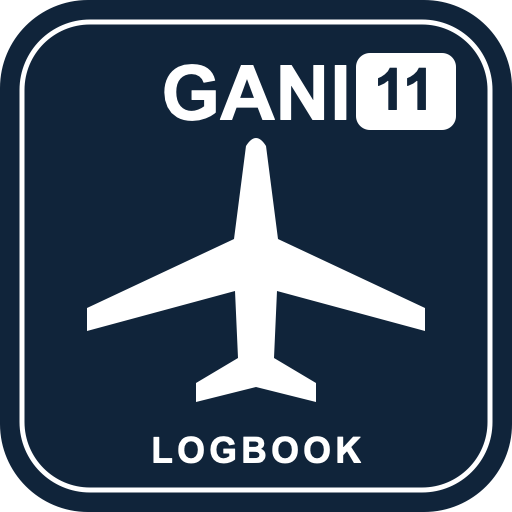
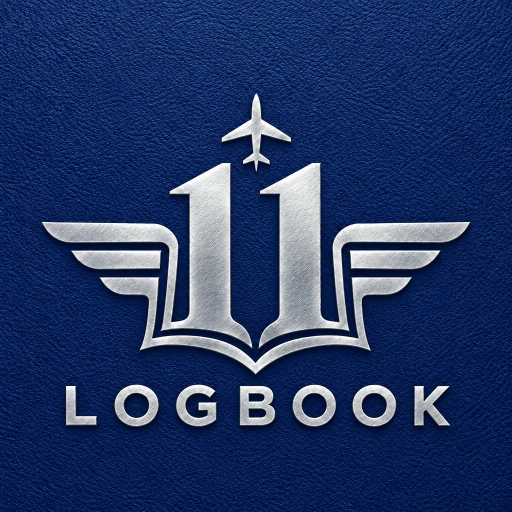
Logbook logosunu ve Safari ikonunu güncelle, sürümü üste al.

diff --git a/support/logbook/index.html b/support/logbook/index.html
@@ -1,5 +1,5 @@
-<!doctype html><html lang="tr"><meta charset="utf-8"><meta name="viewport" content="width=device-width, initial-scale=1, viewport-fit=cover"><meta name="theme-color" content="#10243a"><meta name="apple-mobile-web-app-capable" content="yes"><meta name="apple-mobile-web-app-title" content="Gani Logbook"><link rel="manifest" href="manifest.webmanifest"><link rel="apple-touch-icon" href="icon-192.png"><link rel="icon" href="logo.svg"><link rel="stylesheet" href="style.css"><title>Gani Logbook</title>
-<header><img src="logo.svg" alt="Gani ve uçak logosu"><div><h1>Gani Logbook</h1><p>PILOT FLIGHT RECORD · UTC</p></div><span id="connection">Cihazda</span></header>
+<!doctype html><html lang="tr"><meta charset="utf-8"><meta name="viewport" content="width=device-width, initial-scale=1, viewport-fit=cover"><meta name="theme-color" content="#10243a"><meta name="apple-mobile-web-app-capable" content="yes"><meta name="apple-mobile-web-app-title" content="Gani Logbook"><link rel="manifest" href="manifest.webmanifest"><link rel="apple-touch-icon" href="apple-touch-icon.png"><link rel="icon" href="logo.png"><link rel="stylesheet" href="style.css"><title>Gani Logbook</title>
+<header><img src="logo.png" alt="Logbook logosu"><div><h1>Gani Logbook</h1><p>PILOT FLIGHT RECORD · UTC</p></div><div class="headside"><b id="version">v1.4.8</b><span id="connection">Cihazda</span></div></header>
 <p id="bookStatus" class="bookstatus" role="status">Son senkron: yok · Son online kayıt: yok</p>
 <main><nav><button data-tab="book" class="active">Uçuş defteri</button><button data-tab="import">Rapor aktar</button><button data-tab="settings">Ayarlar ve yedek</button></nav>
 <section id="book"><div class="toolbar booktools"><button id="prevPage">← Önceki</button><b id="pageLabel"></b><button id="nextPage">Sonraki →</button><button id="gmailSync">Senkron et</button><button id="cancelSync" hidden>Durdur</button><button id="cloudConnect">Google ile çevrimiçi kayıt</button><button id="cloudSave" disabled>Online kaydet</button><button id="cloudLoad" disabled>Son kaydı aç</button><button id="add">+ Uçuş</button><button id="print">Yazdır</button></div>
@@ -9,5 +9,5 @@
 <div class="stats"><div><small>TOPLAM BLOCK</small><strong id="total"></strong></div><div><small>GECE · TAHMİNİ</small><strong id="night"></strong></div><div><small>İNİŞLER</small><strong id="landings"></strong></div><div><small>UÇUŞ</small><strong id="count"></strong></div></div><div id="empty" hidden>12 Ekim ve sonrasına ait raporları senkron et veya aktar.</div><div id="records" hidden></div><input id="search" hidden><button id="csv">CSV indir</button><p id="saved" class="hint"></p></section>
 <section id="import" hidden><h2>Flight Report aktar</h2><p>Mailin “Flight Report Delivery Notification” bölümünü yapıştır. Birden fazla raporu birlikte aktarabilirsin. Aynı uçuş tekrar eklenmez; mevcut kayıtların üzerine yazılmaz.</p><label>Rapor metni<textarea id="report" rows="13" placeholder="Flight No: …&#10;Aircraft: TC-…&#10;Off Block: …"></textarea></label><button id="parse">Raporları incele</button><div id="importPreview"></div></section>
 <section id="settings" hidden><h2>Kayıtların sende.</h2><div id="setupInfo"><h3>Gmail bağlantısı</h3><p id="gmailSetup">Google bağlantı yapılandırması henüz tamamlanmadı. Senkronizasyon ilk Google izninden sonra kullanılabilir.</p><button id="gmailDisconnect">Bu oturumun Gmail bağlantısını kapat</button><p>Sadece okuma izni istenir. Uygulama mailleri göndermez, silmez veya etiketlerini değiştirmez. Gmail erişim anahtarı yalnızca açık oturumun belleğinde tutulur; yedeğe ya da siteye kaydedilmez.</p></div><p>Çevrimdışı kopya bu tarayıcıda saklanır. “Online kaydet” aile planıyla aynı FlyFam altyapısında, yalnızca Google hesabına açık özel bir alana sürümlü yedek kaydeder. Drive izni gerekmez. Başka cihazda aynı Google hesabını bağlayıp son kaydı aç. Her kaydetme önceki bulut sürümünü korur. Safari verilerini silmeden önce online kaydı doğrula veya JSON yedeği indir.</p><div class="toolbar"><button id="backup">Yedek indir</button><button id="undoRemove">Son çıkarılan uçuşu geri al</button><label class="file">Yedek yükle<input id="restore" type="file" accept="application/json,.json"></label></div><details><summary>Yedek metninden yükle</summary><label>Gani Logbook JSON yedeği<textarea id="backupText" rows="5"></textarea></label><button id="restoreText">Yedek metnini yükle</button></details><h3>Defter düzeni ve kayıt esası</h3><p>JAR-FCL 1.080 / IEM defter alanları esas alınmıştır. A320/A321 süreleri Multi-Pilot ve Total Time sütunlarına yazılır. Single Pilot / SE ve ME sütunlarına bu uçuşlar için süre eklenmez. Bu kişisel görünüm tam mevzuat uygunluğu sertifikası değildir.</p><h3>PF → PIC eşleştirmesi</h3><p>Senin tercihinle PF seçimi PIC süresine aktarılır. PF tek başına yasal PIC statüsünü kanıtlamaz; bu kişisel eşleştirme kuralıdır. Kayıt bazında pilot görevini değiştirebilirsin.</p><h3>Gece hesabı</h3><p>Gün batımı +30 dk → gün doğumu −30 dk. Saatler UTC. Güneş doğuş/batışı deniz seviyesi, standart −0,833° güneş yüksekliğine göre hesaplanır.</p><p>Blok süresi dakika dakika, iki meydan arasında büyük daire üzerinde eşit hız yaklaşımıyla incelenir. Gerçek rota ve hız profili bulunmadığından gece süresi bir tahmindir; sınır yakınında elle düzeltilebilir. İniş sınıfı tercihinle On Block saatinde varış meydanına göre tahmin edilir. Her uçuşta bir iniş sayılır; bu sayı kişisel PF iniş deneyiminden farklı olabilir.</p><p>Eksik meydan koordinatı varsa gece inişi belirsiz bırakılır. Kutuplarda doğuş/batış oluşmadığında otomatik sonuç verilmez.</p><p><a id="source" href="https://web.shgm.gov.tr/documents/sivilhavacilik/files/mevzuat/sektorel/talimatlar/karma/SHT-FCL11.06.2025.pdf" target="_blank" rel="noopener">SHGM SHT-FCL · 11.06.2025</a> · <span id="ruleStatus">Madde 4(1)(r): günbatımı +30 dk / gündoğumu −30 dk. 31.10.2026 kontrol edildi.</span></p><h3>Safari’den uygulama gibi</h3><p>Paylaş → Ana Ekrana Ekle. İlk açılışı internetle yap; “Çevrimdışı hazır” yazısını gördükten sonra son kayıtlarınla internetsiz çalışır.</p><h3>Meydan koordinatları</h3><p>Yeni meydanları IATA veya ICAO koduyla ekle. Koordinatlar ondalık derece; batı ve güney negatiftir.</p><form id="airportForm" class="grid"><label>Kod<input name="code" required pattern="[A-Za-z]{3,4}"></label><label>Enlem<input name="lat" type="number" step="any" min="-90" max="90" required></label><label>Boylam<input name="lon" type="number" step="any" min="-180" max="180" required></label><button>Meydanı kaydet</button></form><p class="hint">Başlangıç meydanları: OurAirports açık veri kümesi. Yeni değerler yalnızca bu cihaza kaydedilir.</p></section>
-<footer>GANI LOGBOOK · PRIVATE RECORDS ON THIS DEVICE <span>v1.4.7</span></footer></main>
+<footer>GANI LOGBOOK · PRIVATE RECORDS ON THIS DEVICE</footer></main>
 <dialog id="editor"><form id="editForm"><div class="dialoghead"><h2>Uçuş kaydı</h2><button type="button" id="close">Kapat</button></div><input name="id" type="hidden"><div class="grid"><label>Tarih (UTC)<input name="date" type="date" required></label><label>Uçuş no<input name="flight" required></label><label>Tescil<input name="reg" required pattern="[Tt][Cc]-?[RrNnDd][A-Za-z]{2}" placeholder="TC-DCI"></label><label>Kalkış<input name="from" required maxlength="4"></label><label>Varış<input name="to" required maxlength="4"></label><label>Off Block (UTC)<input name="off" type="datetime-local" required></label><label>Take Off (UTC)<input name="takeoff" type="datetime-local"></label><label>Landing (UTC)<input name="landing" type="datetime-local"></label><label>On Block (UTC)<input name="on" type="datetime-local" required></label><label>Kaptan<input name="pic"></label><label>Pilot görevi<select name="function"><option value="copilot">Co-pilot</option><option value="pic">PIC</option><option value="dual">Dual</option></select></label><label>Uçuş seçimi<select name="flown"><option value="unknown">Henüz seçmedim</option><option value="yes">Ben uçtum / inişi ben yaptım</option><option value="no">Diğer pilot uçtu / inişi yaptı</option></select></label><label>IFR<select name="ifr"><option value="unknown">Teyit edilmedi</option><option value="yes">Tüm blok IFR</option><option value="no">IFR değil</option></select></label><label>Gece süresi düzeltme (dk)<input name="nightOverride" type="number" min="0" placeholder="Boş: otomatik"></label><label>Gece inişi düzeltme<select name="landingOverride"><option value="auto">Otomatik</option><option value="night">Gece</option><option value="day">Gündüz</option></select></label><label class="wide">Not<input name="remarks"></label></div><p id="editError" role="alert"></p><button class="primary">Kaydı sakla</button><button type="button" id="removeFlight">Pass / FO değil · Defterden çıkar</button></form></dialog><div id="toast" role="status"></div><script src="sun.js"></script><script src="airports.js"></script><dialog id="pfReview"><div class="dialoghead"><h2>Uçuşlarını seç</h2><button id="closeReview">Sonra devam et</button></div><p>Her yeni uçuş için PF veya PM seç. Seçmediklerin bekleyen listesinde kalır. PF → PIC, PM → co-pilot; blok süresi değişmez.</p><div class="reviewhead"><strong id="reviewCount"></strong><button id="nextReview">Sonraki uçuş</button></div><div id="reviewContent"></div></dialog><script src="mail-parser.js"></script><script src="app.js"></script><script src="gmail-config.js"></script><script src="gmail.js"></script><script src="cloud.js"></script></html>

diff --git a/support/logbook/sw.js b/support/logbook/sw.js
@@ -1,4 +1,4 @@
-const CACHE='gani-logbook-v1.4.7';const FILES=['./','./index.html','./style.css','./app.js','./mail-parser.js','./gmail.js','./cloud.js','./gmail-config.js','./sun.js','./airports.js','./logo.svg','./manifest.webmanifest','./icon-192.png','./icon-512.png'];
+const CACHE='gani-logbook-v1.4.8';const FILES=['./','./index.html','./style.css','./app.js','./mail-parser.js','./gmail.js','./cloud.js','./gmail-config.js','./sun.js','./airports.js','./logo.png','./apple-touch-icon.png','./manifest.webmanifest','./icon-192.png','./icon-512.png'];
 self.addEventListener('install',e=>e.waitUntil((async()=>{const c=await caches.open(CACHE);await Promise.all(FILES.map(async f=>{const url=new URL(f,self.location).href;const r=await fetch(url,{cache:'no-store'});if(!r.ok)throw new Error(f);await c.put(url,r)}));await self.skipWaiting()})()));
 self.addEventListener('activate',e=>e.waitUntil((async()=>{const keys=await caches.keys();await Promise.all(keys.filter(k=>k.startsWith('gani-logbook-')&&k!==CACHE).map(k=>caches.delete(k)));await self.clients.claim();const pages=await self.clients.matchAll({type:'window',includeUncontrolled:true});await Promise.all(pages.map(c=>c.navigate(c.url).catch(()=>{})))})()));
 self.addEventListener('fetch',e=>{const u=new URL(e.request.url);if(e.request.method!=='GET'||u.origin!==location.origin||!u.pathname.startsWith('/logbook/'))return;e.respondWith((async()=>{try{const r=await fetch(e.request,{cache:'no-store'});if(r.ok){const copy=r.clone();caches.open(CACHE).then(c=>c.put(e.request,copy))}return r}catch{return (await caches.match(e.request))||(e.request.mode==='navigate'?(await caches.match('./index.html')):null)||Response.error()}})())});

diff --git a/support/logbook/style.css b/support/logbook/style.css
@@ -20,6 +20,10 @@
 .logbook tfoot tr:nth-child(2)>*{background:#f2f5f8}
 .logbook tfoot tr:last-child>*{background:#cbdbea;border-top:2px solid #10243a;font-weight:bold}
 @media print{.logbook{-webkit-print-color-adjust:exact;print-color-adjust:exact}}
+header img{width:44px;height:44px;border-radius:8px}
+.headside{margin-left:auto;display:flex;flex-direction:column;align-items:flex-end;gap:1px}
+#version{font-size:12px;font-weight:700;letter-spacing:.2px}
+#connection{margin-left:0;max-width:160px}
 .bookstatus{margin:0;padding:7px 12px;background:#edf1f5;color:#10243a;font-size:13px;line-height:1.35}
 .bookstatus.warn{background:#fff4d6;font-weight:700}
 @media print{.bookstatus{display:none}}

diff --git a/docs/CURSOR_CHANGE_HANDOFF.md b/docs/CURSOR_CHANGE_HANDOFF.md
@@ -13,6 +13,15 @@ Bu dosya, Cursor ve diğer kod ajanlarının mevcut çalışmaları bozmadan dev
 
 ## Güncel teknik kayıtlar
 
+### 2026-10-31 — Logbook logosu ve sürüm yeri
+
+- **İstek:** Verilen görsel logo olsun. Safari ana ekran ikonu da o olsun. Sürüm üst sağa gelsin.
+- **Dosyalar:** `support/logbook/logo.png`, `apple-touch-icon.png`, `icon-192.png`, `icon-512.png`, `index.html`, `style.css`, `sw.js` (`gani-logbook-v1.4.8`), `scripts/test-gani-logbook-sync.mjs`.
+- **Davranış:** Başlık logosu `logo.png`. Ana ekran ikonu `apple-touch-icon.png` (180) ve manifest 192/512. Sürüm başlığın sağında; bağlantı durumu onun altında.
+- **Koruma:** Uçuşlar, devir, senkron ve online uyarı aynı. `gani-logbook` fonksiyonu deploy edilmedi.
+- **Doğrulama:** `node scripts/test-gani-logbook-sync.mjs` OK. `git diff --check` temiz.
+- **Canlı:** Yayın sonrası doğrulanacak.
+
 ### 2026-10-31 — Logbook üstte senkron ve online kayıt
 
 - **İstek:** En üstte son senkron günü, o günden bugüne geçen süre ve son online kayıt görünsün. Online kayıt senkrondan eskiyse ünlem ve kaydedilmedi uyarısı.
